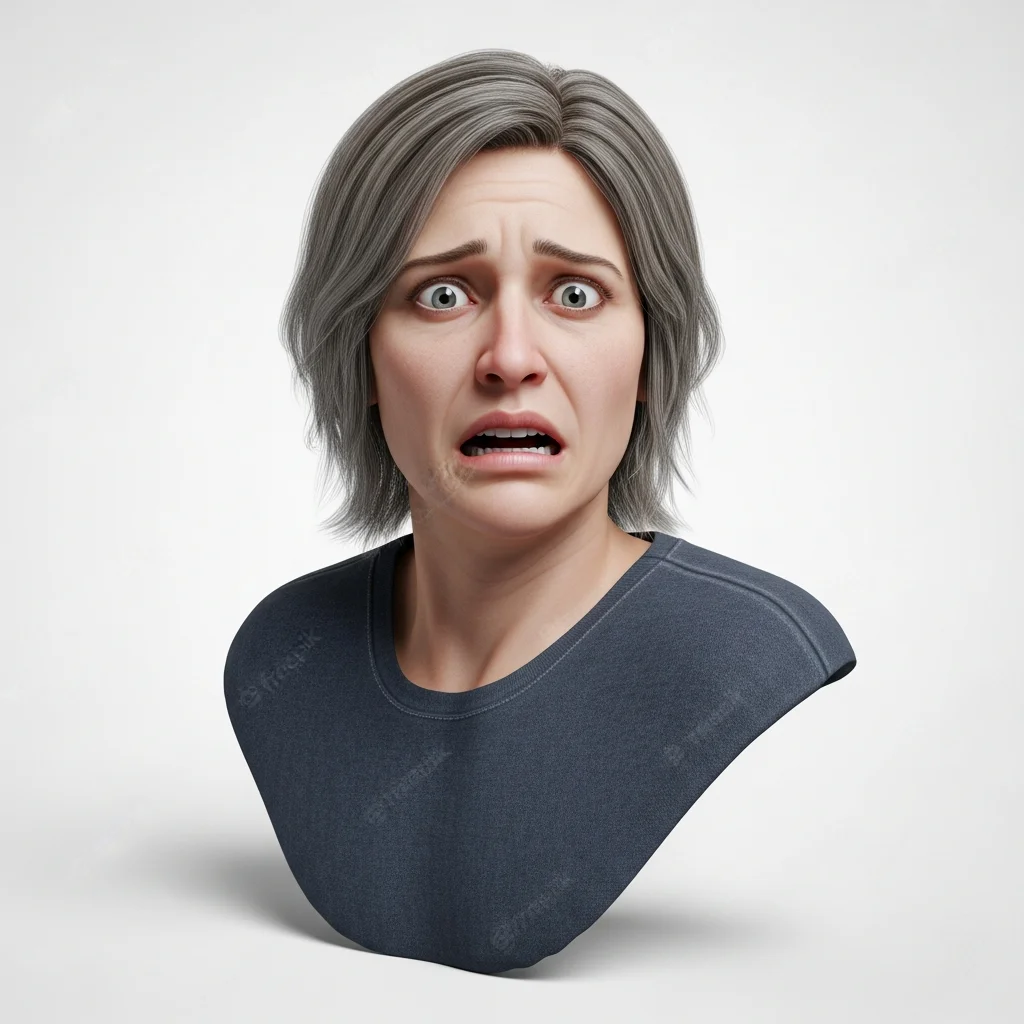
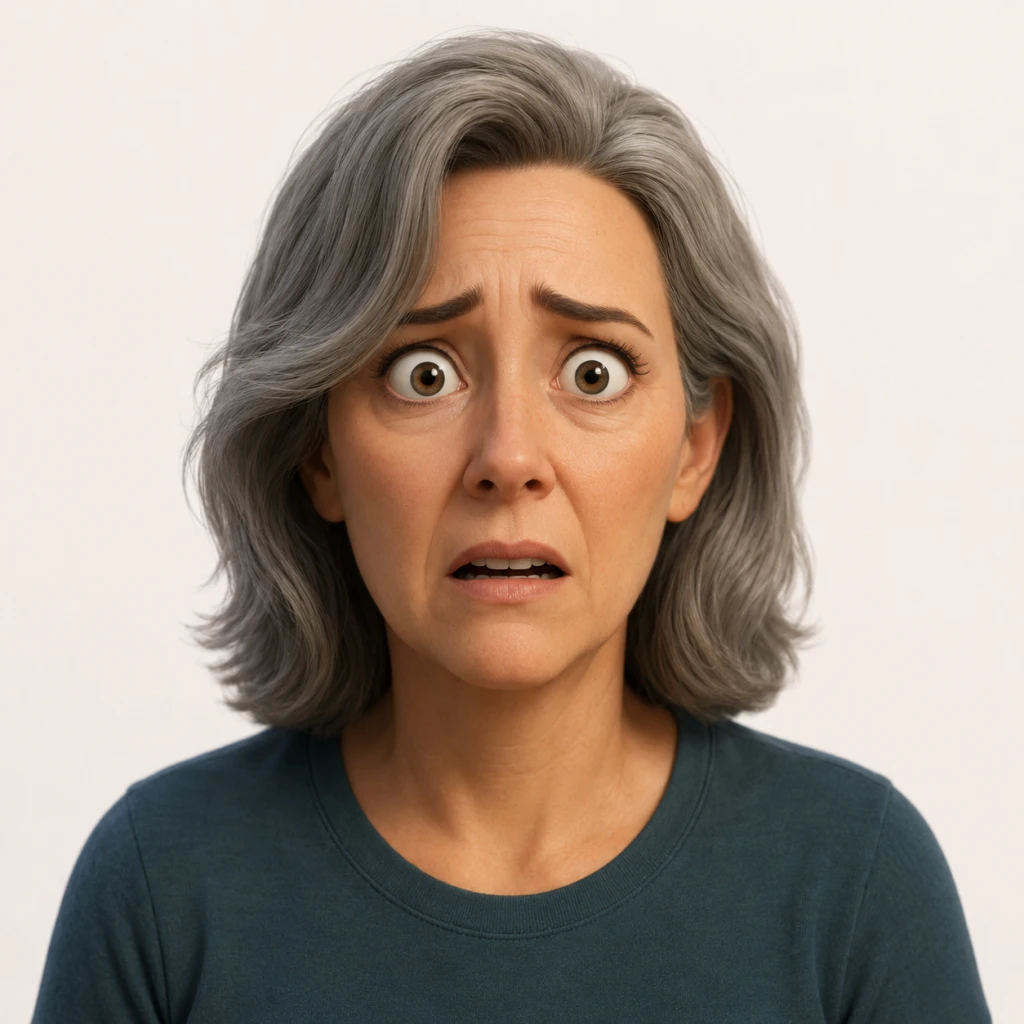
fix(art): replace 3 flagged assets — Freepik watermark + baked aspect tokens (MT-263)
Regenerated from style-matched prompts and re-exported to the same paths:
- feelings/adult/scared.webp — was a licensed Freepik stock render (tiled
  watermark); replaced with a fresh gen, watermark gone, 1024x1024.
- scenes/sprout/friendly_ocean.webp — dropped the baked "1:1" token, 1024x1024.
- scenarios/adult/big_feelings_quest.webp — dropped the baked "Aspect 16:9"
  token, 1280x721 (true 16:9).

All three image-verified clean of text/watermark after placement. No code change
(same filenames/paths). Closes MT-263.

diff --git a/docs/MANUAL_TASKS.md b/docs/MANUAL_TASKS.md
@@ -24,7 +24,7 @@ When closing a session:
 > **Age-band UX launch audit (ux6b, 2026-06-15): MT-262 … MT-289.** Full report, per-band verdicts, and the delights backlog live in **`docs/AGE_BAND_UX_LAUNCH_AUDIT.md`**. ✅ = verified first-hand this session (image viewed / code read); ⚠ = agent-reported, verify before acting. Two wizard flows matter: page-based Hero Creator (Sprout/Explorer/Adventurer) vs the `CreativeBrief` accordion (Creator/Adolescent/Adult).
 
 - **MT-262** [closed via #287, 2026-06-16] SHIP-BLOCKER — review-screen baby-art leak ✅ (Explorer, Adventurer, Adolescent) (created by ux6b) — `magic_review_step.dart:207-218` `_scenarioImage` returned `scenario.illustration` (shared-root **babyish** art) instead of `illustrationForAge(age)` (`scenario_data.dart:161-170`). On the last screen before "Start", a child/teen who picked cinematic art was shown preschool art — Volcano Dragons → `sleeping_dragon.webp` (baby dragon, image verified), Adolescent antihero → `my_big_feelings_btn.webp` (a pastel feelings *button*). **CLOSED** by a parallel session via PR **#287** (`83e5827e fix(review): serve age-appropriate scenario art on the review orb`) — `_scenarioImage` now threads the child's age and calls `illustrationForAge`. **Still open (split out):** the review orb glow is hardcoded gold (`:2168`) on the teal Adolescent band — see MT-275 / fold into MT-273; Creator/Adult dodge the leak only by rendering no scenario image (MT-275).
-- **MT-263** [open] SHIP-BLOCKER / LEGAL — baked-in watermarks + text in shipped art ✅ (created by ux6b) — AI-gen artifacts in production assets, **3 confirmed, all image-verified 2026-06-16:** (1) `feelings/adult/scared.webp` — tiled **"Freepik" stock watermark** ✅ → this is a *licensed stock render*, must be **REPLACED with a fresh gen** (not just cleaned) to clear the licensing exposure; (2) `scenes/sprout/friendly_ocean.webp` — baked **"1:1"** token in the sand ✅; (3) `scenarios/adult/big_feelings_quest.webp` — baked **"Aspect 16:9"** token bottom-right ✅. The earlier ⚠ `feelings/adolescent/quiz_whiz_girl.webp` ("GIRL POWER" mug / "START JOURNEY" button) was **DROPPED** — that file does not exist (agent misidentification). **Fix:** style-matched regen prompts + per-image aspect ratios written 2026-06-17 (Imagen takes aspect as a param — keep it out of the prompt text so the token can't bake back in); re-export to the same `.webp` paths (no code change); add a pre-ship watermark/text check for generated assets.
+- **MT-263** [closed, 2026-06-17] SHIP-BLOCKER / LEGAL — baked-in watermarks + text in shipped art ✅ (created by ux6b) — AI-gen artifacts in production assets, **3 confirmed, all image-verified 2026-06-16:** (1) `feelings/adult/scared.webp` — tiled **"Freepik" stock watermark** ✅ → was a *licensed stock render*, **REPLACED with a fresh gen** to clear the licensing exposure; (2) `scenes/sprout/friendly_ocean.webp` — baked **"1:1"** token in the sand ✅; (3) `scenarios/adult/big_feelings_quest.webp` — baked **"Aspect 16:9"** token bottom-right ✅. The earlier ⚠ `feelings/adolescent/quiz_whiz_girl.webp` ("GIRL POWER" mug / "START JOURNEY" button) was DROPPED — that file does not exist (agent misidentification). **RESOLVED 2026-06-17 (ux6b):** Darcy regenerated all 3 from style-matched prompts (Freepik render replaced, no watermark; both baked aspect-ratio tokens gone — image-verified the placed files). Re-exported to the same `.webp` paths at original dims (scared/friendly_ocean 1024², big_feelings_quest 1280×721) — no code change. **Residual (not blocking, → new task if wanted):** the suggested pre-ship watermark/text lint for generated assets was never built.
 - **MT-265** [open] HIGH — hard Boy/Girl gender binary across all bands ✅ (created by ux6b) — `hero_creator_step.dart:2896-2949` offers only Boy|Girl, force-defaulted to 'Girl' (`:213-215`, `:691`), as a gate to advance. No neutral/"They"/surprise — yet the `they/them` pronoun path already exists in code (dead for the picker) and **Adolescent's CreativeBrief already ships a He/She/They selector** (`hero_creator_creative_brief.dart:322-397`) while Creator one band down still gets Boy/Girl (`:226-307`). Most alienating for 9-17. **Fix:** add a neutral/"They" option everywhere (port the adolescent selector); for Sprout/Explorer add a friendly "Surprise me!" and make it skippable.
 - **MT-266** [open] HIGH / SAFETY — Adolescent antihero self-harm-adjacent framing ⚠ (created by ux6b) — The "double life" content is mostly well-handled (the *"where do you draw the line"* moral-code prompt at `superhero_costume_screen.dart:660-666` is the safety valve — KEEP it). The original flag: power **"Ghost — easy to vanish for real"** (`superhero_power_screen.dart:240`) + secret chip **"That I'm not okay"** (`superhero_costume_screen.dart:646`) together read as romanticizing disappearance; and the Identity page is concealment-only. **UPDATE (ux6b, 2026-06-15) — partial fix shipped:** the client "vanish for real" string is FIXED — `superhero_power_screen.dart:240` now reads *"Move unseen and unheard — the better you hide, the more alone you are."*, aligned to the backend's already-safe framing (`superhero_matrix.py:1084`, where the cost is **loneliness**, not disappearance). The self-harm adjacency in the UI label is removed; the generated story already used the safe verb. **Remaining (this task stays open):** (a) the secret chip "That I'm not okay" was KEPT deliberately — naming that you're struggling is an honest, healthy disclosure, not a defect — but **confirm the generated chapter treats that secret with care** (moves the character toward being *seen* / supported, never glorifies concealment); (b) add the optional 4th Identity prompt *"Who gets to see the real you?"* to balance the concealment-only page (needs a new nullable `WizardData` field threaded client→backend, mirroring the heroSecret/heroTell/heroLine pattern — see [[superhero_field_end_to_end_contract]]); (c) **route the whole antihero tone past a second (ideally clinical) reviewer before launch** — the wording tweak does not substitute for human sign-off.
 - **MT-267** [open] HIGH — Sprout name entry is an impossible hard gate ✅ (created by ux6b) — `hero_creator_step.dart:2952-2972`, `:3017-3122`: a 3-5 can't type, the web mic STT fails silently, and an empty name blocks all forward motion behind a red error a pre-reader can't read. **Fix:** add a name-free path (tappable name list / "Surprise me" name / archetype default) so the child is never stuck on page 1.
